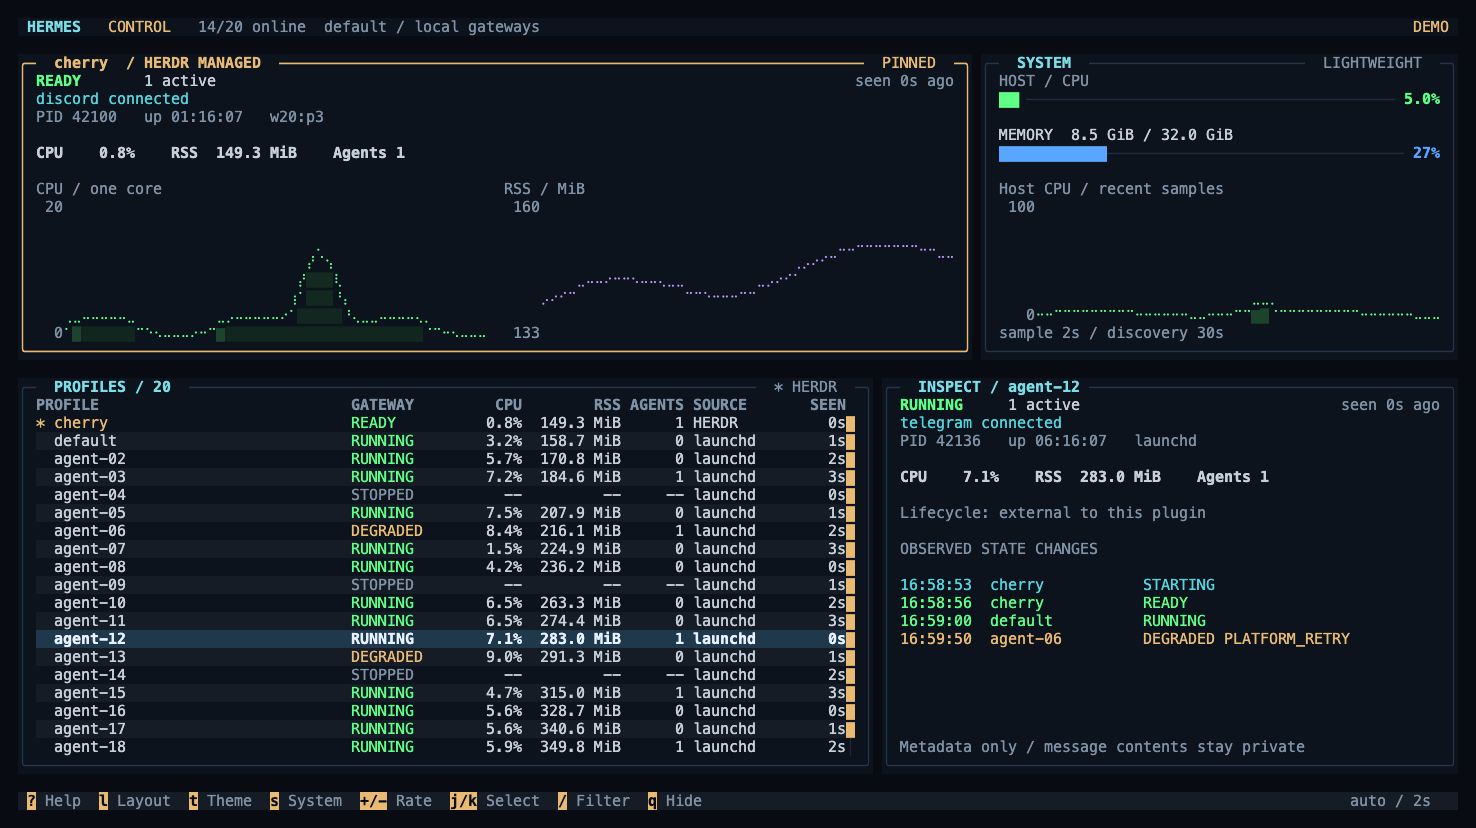
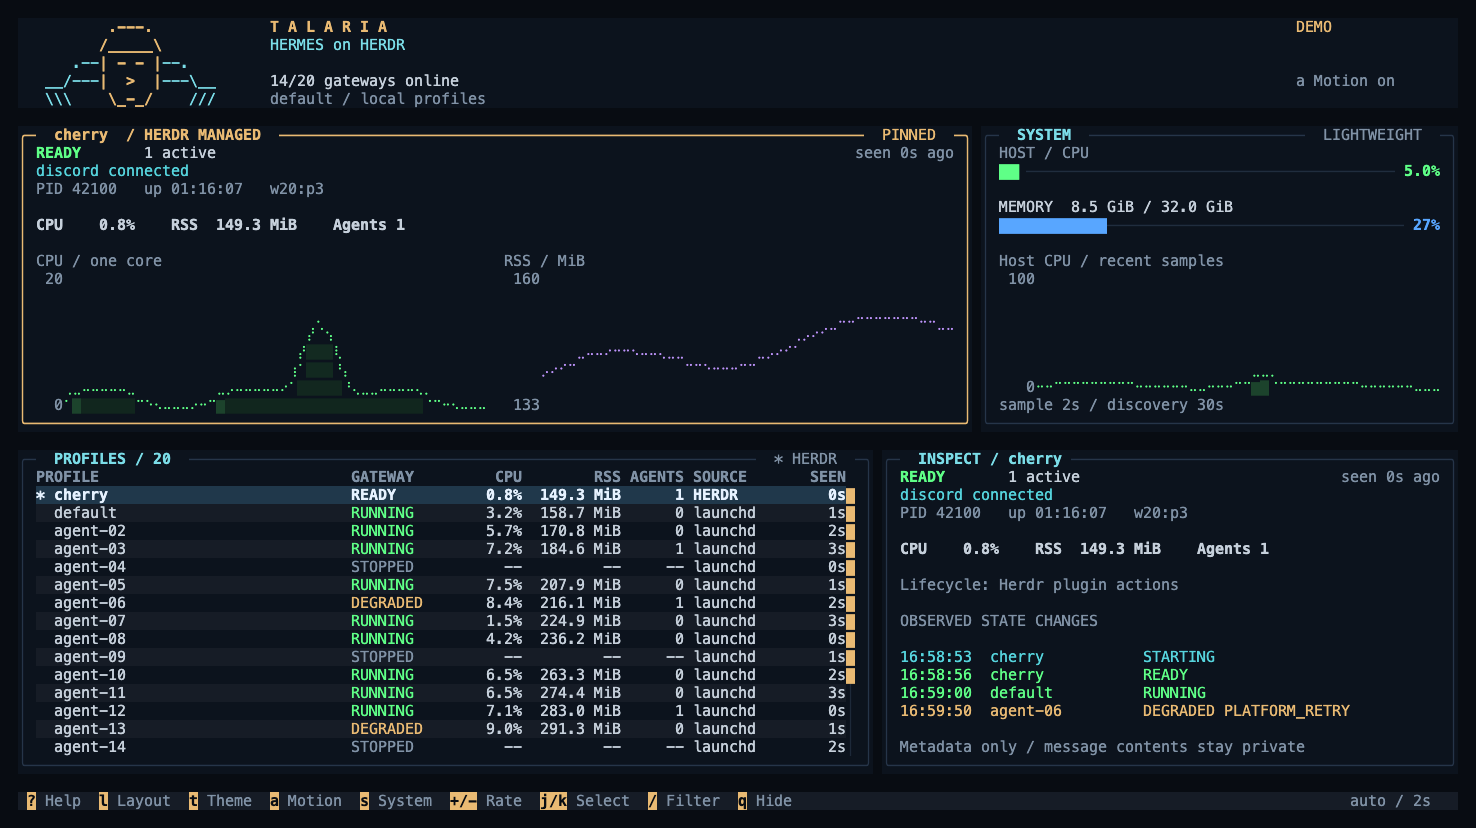
docs: record Talaria animation previews and measured resource costs

diff --git a/tools/dashboard_preview.py b/tools/dashboard_preview.py
@@ -25,7 +25,7 @@ def fixed_cell_html(screen):
             style = (f"left:{x * 9}px;top:{y * 18}px;color:#{cell.fg & 0xffffff:06x};"
                      f"background:#{cell.bg & 0xffffff:06x};font-weight:{700 if cell.attrs & Attrs.BOLD else 400}")
             cells.append(f'<span style="{style}">{escape(cell.char)}</span>')
-    return ("<!doctype html><meta charset='utf-8'><title>Hermes Control / offline demo</title>"
+    return ("<!doctype html><meta charset='utf-8'><title>Talaria / Hermes on Herdr / offline demo</title>"
             "<style>body{margin:0;padding:18px;background:#080c12}"
             "main{position:relative;font:15px/18px Menlo,monospace;font-variant-ligatures:none}"
             "span{position:absolute;display:block;width:9px;height:18px;white-space:pre;overflow:hidden}</style>"
@@ -39,13 +39,15 @@ def main():
     parser.add_argument("--height", type=int, default=44)
     parser.add_argument("--layout", choices=("auto", "cards", "table"), default="auto")
     parser.add_argument("--selected", default="cherry")
+    parser.add_argument("--pose", type=int, choices=(0, 1, 2), default=0, help="Hermes wing pose for a still preview")
     parser.add_argument("--output", type=Path, required=True)
     args = parser.parse_args()
     if not 20 <= args.width <= 300 or not 8 <= args.height <= 100:
         parser.error("Preview size must be 20..300 columns and 8..100 rows")
     data = demo_snapshot(args.profiles)
     view = DashboardView(ViewState(selected=args.selected, layout=args.layout), embedded=True, demo=True)
-    screen = render_to_screen(args.width, args.height, theme_for("herdr"), lambda ui: view.render(ui, data, now=data.updated))
+    screen = render_to_screen(args.width, args.height, theme_for("herdr"),
+                              lambda ui: view.render(ui, data, now=data.updated, pose=args.pose))
     args.output.write_text(fixed_cell_html(screen))
     print(f"Rendered {args.profiles} demo profiles at {args.width}x{args.height}: {args.output}")
 

diff --git a/docs/README.en.md b/docs/README.en.md
@@ -9,9 +9,9 @@
 
 This Herdr plugin implementation aims to ensure that one dedicated Hermes Gateway runs inside its owning Herdr pane. The Gateway inherits the actual `HERDR_SOCKET_PATH`, `HERDR_WORKSPACE_ID`, `HERDR_TAB_ID` and `HERDR_PANE_ID`, so it can act as a control agent for that session.
 
-**Current status: the core and hqtui dashboard are implemented; 135 offline tests pass.** The dashboard adapts to small and large profile collections, pins the Herdr-managed profile and provides adjustable layouts, themes and bounded sampling. See [previews, controls and resource measurements](14-hqtui监控面板.md).
+**Current status: the core and hqtui dashboard are implemented; 142 offline tests pass.** The Talaria dashboard includes an ASCII Hermes wing animation, adapts to small and large profile collections, pins the Herdr-managed profile and provides adjustable layouts, themes, an animation toggle and bounded sampling. See [previews, controls and resource measurements](14-hqtui监控面板.md).
 
-Cherry previously reached READY under plugin supervision, and the user confirmed message connectivity. The native LaunchAgent remains removed. This dashboard work did not stop or restart Herdr or cherry; activation requires a new supervisor process and user confirmation before live validation. Cold-start, shutdown and explicit pane interaction checks remain pending in the [cherry record](13-cherry接入与验证.md).
+Cherry previously reached READY under plugin supervision, and the user confirmed message connectivity. The native LaunchAgent remains removed. A standalone dashboard has been previewed in an adjacent Herdr pane with cherry and default online. Herdr and cherry were not stopped or restarted. Embedded activation, cold-start, shutdown and explicit pane interaction checks still require confirmation before live validation; see the [cherry record](13-cherry接入与验证.md).
 
 ![Two-profile hqtui dashboard with offline demo data](evidence/dashboard-two.png)
 
@@ -73,7 +73,7 @@ Run isolated tests with the configured Hermes venv Python:
 
 Tests use temporary directories, fake Herdr RPC and controlled Python Gateway fixtures. They do not import Hermes main or invoke installed Herdr/Hermes entry points. Scenarios cover concurrent creation, lost responses, process exits, pause races, PID reuse, background-process cleanup and log backpressure.
 
-The [135-test output](evidence/dashboard-unittest.txt) includes bounded multi-profile sampling, real PTY input and renderer failure isolation. The [dashboard record](14-hqtui监控面板.md) includes reproducible resource measurements. The initial [84-test run](evidence/offline-unittest.txt) and [90-test cherry integration run](13-cherry接入与验证.md) remain available as historical evidence. Linux and live handoff remain unverified.
+The [142-test output](evidence/dashboard-unittest.txt) includes bounded multi-profile sampling, animation and sampling isolation, cached frame invalidation, real PTY input and renderer failure isolation. The [dashboard record](14-hqtui监控面板.md) includes reproducible resource measurements. The initial [84-test run](evidence/offline-unittest.txt) and [90-test cherry integration run](13-cherry接入与验证.md) remain available as historical evidence. Linux and live handoff remain unverified.
 
 ## Stack
 
